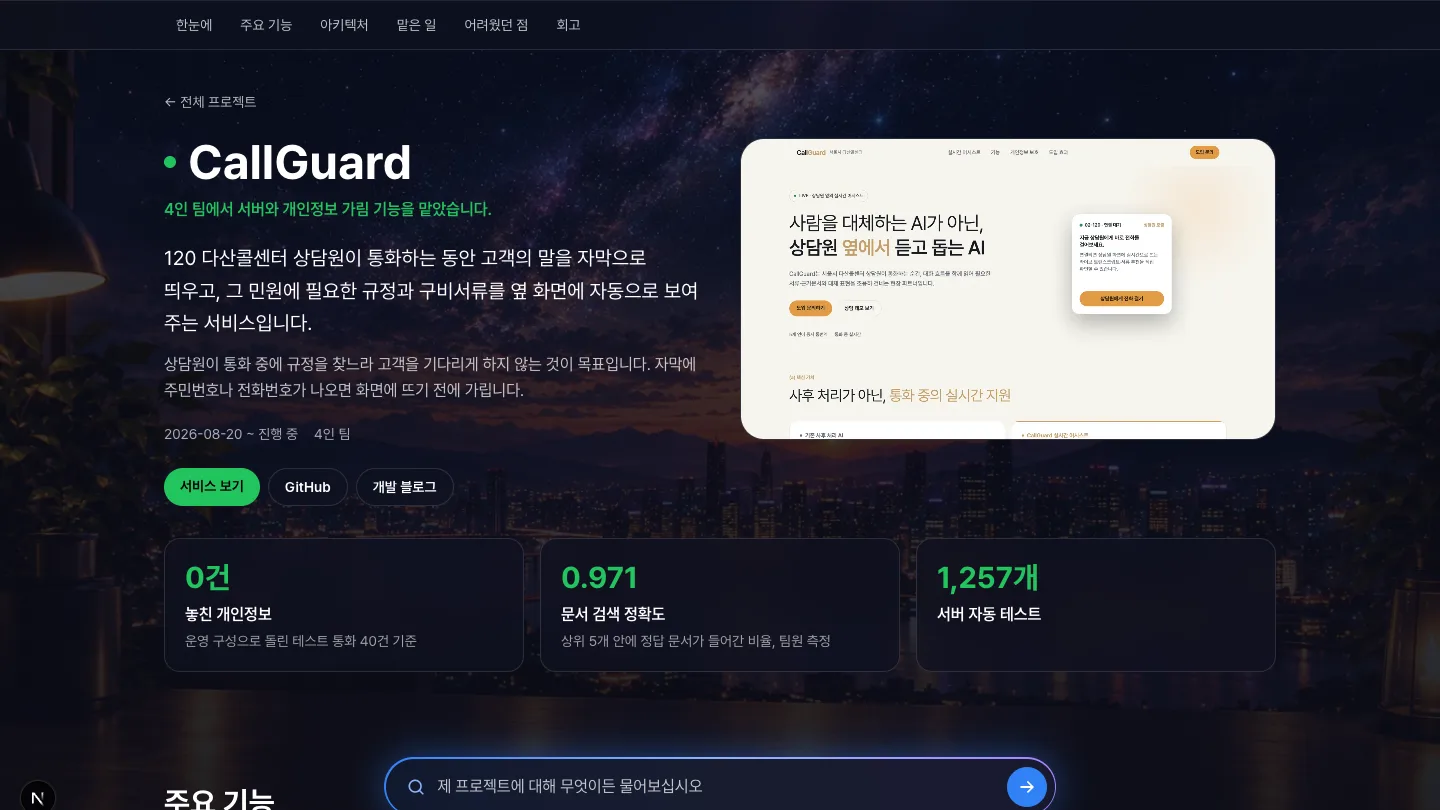
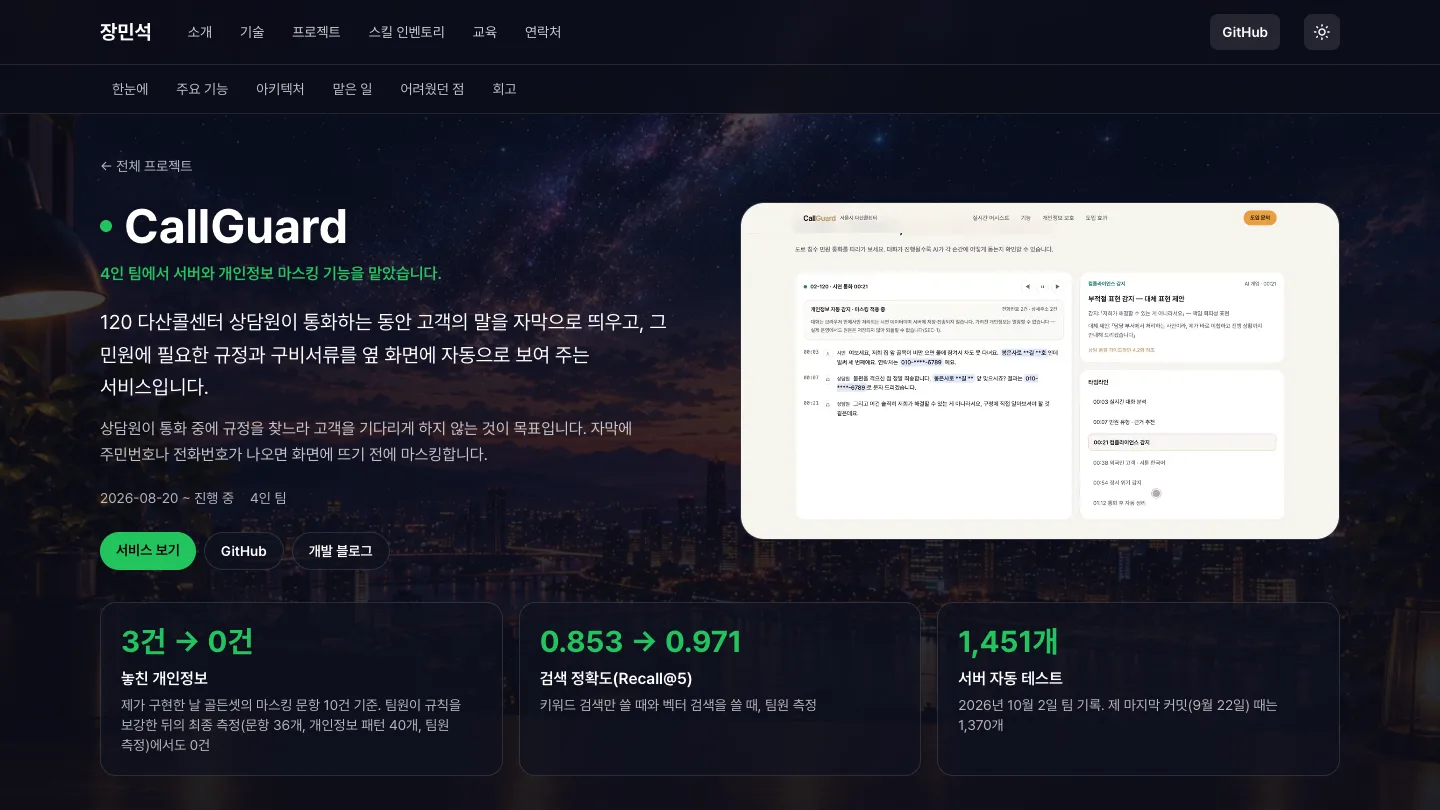
fix(content): 포트폴리오 점검 — 낡은 수치와 이미지를 지금 사이트에 맞추고 어색한 문장 정리
- 포트폴리오 기능 이미지 4장을 운영 사이트에서 다시 찍음(옛 입력창 문구, 화면에서 뺀 답변 끝 주소, 옛 테스트 수가 남아 있었음)
- 포트폴리오 테스트 수 64·68개를 96·82개로, 기능 제목을 화면 이름(스킬 인벤토리)에 맞춤
- RedOceanMap: 커밋 수를 10월 6일 기준 457개로, 구조도의 정기 작업 8개를 실제 11개로, 맡은 일 목록에 문단으로 들어가 있던 보안 설명은 아키텍처 항목으로 옮기고 목록에는 한 줄만 남김
- 차곡노트: 커밋 수와 기간을 10월 6일 기준으로, CI 문장에 어느 쪽을 검사하는지 밝힘
- 스킬 인벤토리 Git 협업 카드에 RedOceanMap과 차곡노트의 CI를 근거로 추가

diff --git a/content/chagocnote/notes.md b/content/chagocnote/notes.md
@@ -1,6 +1,6 @@
 ## [04] 개발 방식과 본인이 맡은 범위
 
-차곡노트는 장민석 혼자 만든 프로젝트입니다. 저장소의 커밋 412개는 모두 장민석 한 사람의 이름으로 기록되어 있고, 첫 커밋(2026-09-20)부터 가장 최근 커밋(2026-10-04)까지 15일이 걸렸습니다. 개발은 AI 코딩 어시스턴트와 함께 했습니다. 백엔드(FastAPI), 매장용 Flutter 앱, 보호자용 Next.js 웹, Docker Compose 개발 환경을 모두 직접 설계하고 구현했습니다.
+차곡노트는 장민석 혼자 만든 프로젝트입니다. 저장소의 커밋 417개는 모두 장민석 한 사람의 이름으로 기록되어 있고, 첫 커밋(2026-09-20)부터 가장 최근 커밋(2026-10-06)까지 17일이 걸렸습니다. 개발은 AI 코딩 어시스턴트와 함께 했습니다. 백엔드(FastAPI), 매장용 Flutter 앱, 보호자용 Next.js 웹, Docker Compose 개발 환경을 모두 직접 설계하고 구현했습니다.
 
 작업은 서브 프로젝트 단위(기반, 고객과 반려동물, 방문과 예약, 기록과 미디어, 알림장)로 나눴습니다. 서브 프로젝트마다 설계 문서를 먼저 쓰고, 그다음 작업 단위로 쪼갠 구현 계획을 썼습니다. 네 번째 계획인 매장 앱 계획(2026-09-22)부터는 계획의 코드를 참조 구현에서 먼저 돌려 테스트가 통과하는지와, 일부러 코드를 망가뜨렸을 때 테스트가 실패하는지(변이 확인)를 본 뒤에 본 브랜치로 옮겼습니다. 참조 구현은 `ref/` 로 시작하는 참조 브랜치에 두었고(매장 앱 계획만 저장소 밖 참조 프로젝트), 옮긴 뒤에는 참조 브랜치와 차이가 없는지 대조했습니다. 설계와 다르게 간 것, 막지 않기로 한 동작, 미룬 것은 결정 기록(`_docs/decisions/`)에 서브 프로젝트마다 남겼습니다.
 

diff --git a/content/redoceanmap/notes.md b/content/redoceanmap/notes.md
@@ -52,4 +52,4 @@ k3s로 옮길 때 서비스가 끊긴 시간은 45초였고, 그 뒤 도메인 4
 
 ## [01] 대표 프로젝트
 
-장민석의 대표 프로젝트는 RedOceanMap입니다. 2026년 5월 22일에 시작해 지금도 이어 가고 있는 1인 프로젝트로, 기획부터 서버, 화면, AI 품질 평가, 배포와 운영까지 혼자 맡았습니다. 저장소에 남은 커밋은 451개입니다. 작은 AI 모델을 직접 운영하면서 답변 품질을 골든셋 평가로 재고, 자체 서버에 올려 운영하고 있습니다.
+장민석의 대표 프로젝트는 RedOceanMap입니다. 2026년 5월 22일에 시작해 지금도 이어 가고 있는 1인 프로젝트로, 기획부터 서버, 화면, AI 품질 평가, 배포와 운영까지 혼자 맡았습니다. 저장소에 남은 커밋은 2026년 10월 6일 기준 457개입니다. 작은 AI 모델을 직접 운영하면서 답변 품질을 골든셋 평가로 재고, 자체 서버에 올려 운영하고 있습니다.
